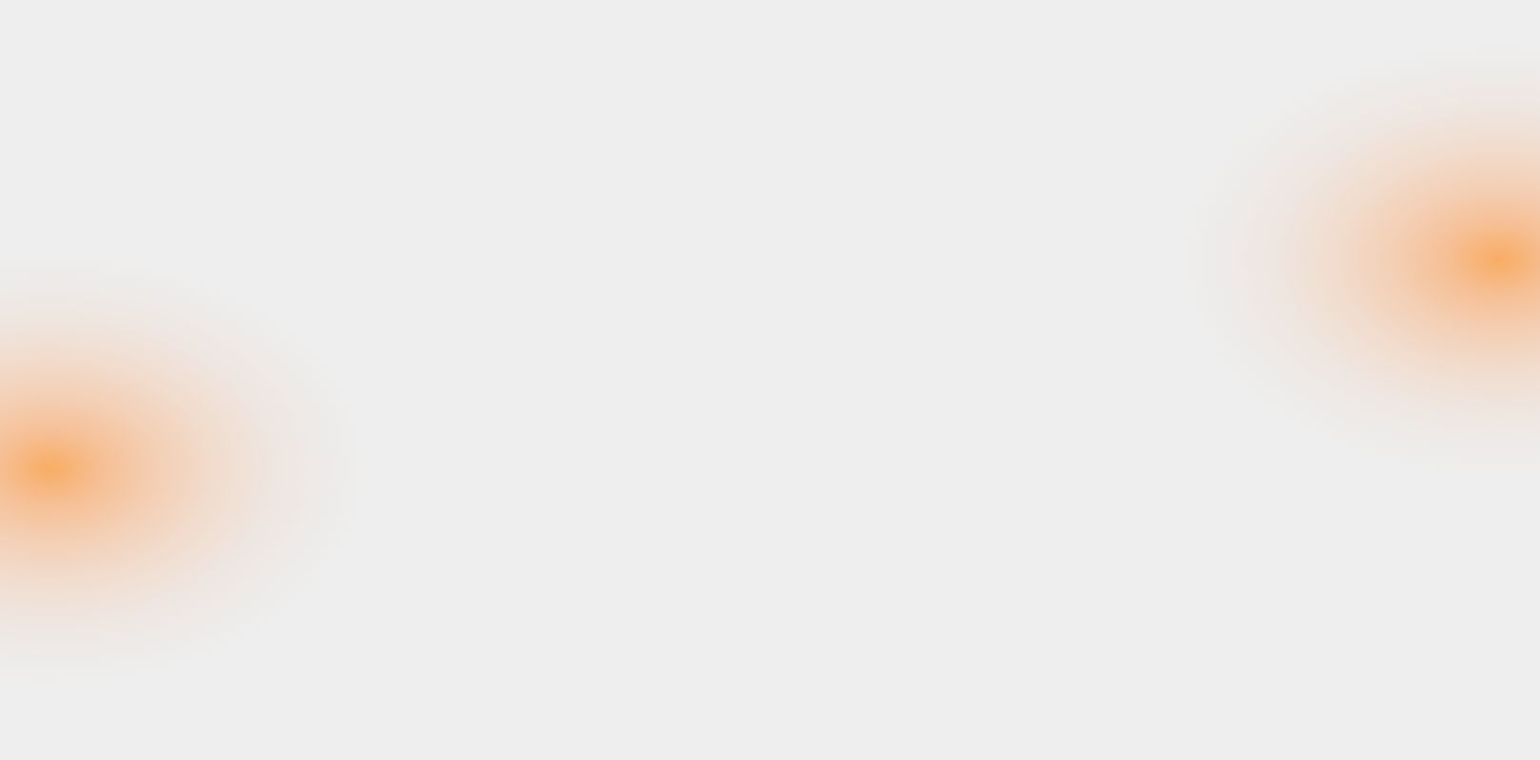
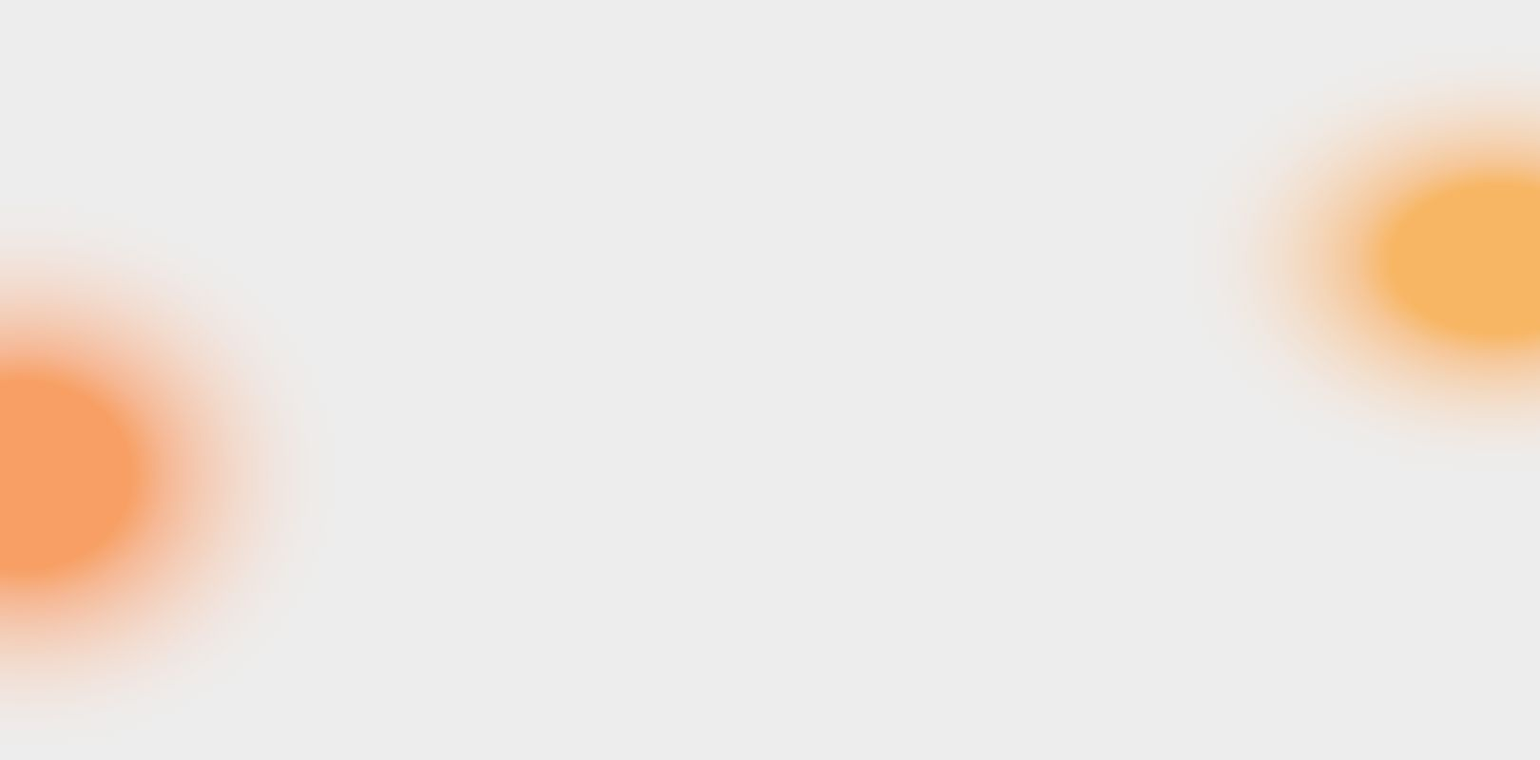
theme

Changed region(s): [[0.0, 0.3438, 0.1235, 0.9062], [0.8333, 0.1562, 1.0, 0.5312]]

diff --git a/client/src/components/aboutMe/AboutMe.jsx b/client/src/components/aboutMe/AboutMe.jsx
@@ -31,37 +31,37 @@ const AboutMe = () => {
 
     return(
         <div className={style.container} style={{background: theme === 'dark' ? "" : '#eee'}}>
-                <p className={style.aboutMe} data-aos="fade-right" data-aos-duration="800" id='about' style={{color: theme === 'dark' ? '#aaa' : '#333', fontWeight: theme === 'dark' ? '400' : '400', borderBottom: theme === 'dark' ? '' : '1px solid #B87700' }}>{t('about.titulo')}</p>
+                <p className={style.aboutMe} data-aos="fade-right" data-aos-duration="800" id='about' style={{color: theme === 'dark' ? '#aaa' : '#222', borderBottom: theme === 'dark' ? '' : '1px solid #ff8e00' }}>{t('about.titulo')}</p>
                 
                 <div className={style.box}>
                         <div className={`${style.imgTxt} ${isLightMobile ? style.imgTxtLight : style.imgTxt}`} data-aos="fade-right" data-aos-duration="800">
-                            <img src="dev.jpeg" alt="Imagen desarrollador" style={{opacity: theme === 'light' ? '1' : ''}} />
+                            <img src="dev.jpeg" alt="Imagen desarrollador" style={{opacity: theme === 'light' ? '.9' : ''}} />
                         </div>
                         <div className={style.contenido}>
                             <div className={style.texto} data-aos="fade-up" data-aos-duration="800">
-                                    <h5 className={`${style.why} ${isLightMobile ? style.whyLight : style.why}`} style={{color: theme === 'dark' ? '' : 'orange', fontWeight: theme === 'dark' ? '' : '500'}}>{t('about.txt-titulo')}</h5>
-                                    <p className={`${style.first} ${isLightMobile ? style.firstLight : style.first}`} style={{color: theme === 'dark' ? '' : '#333', fontWeight: theme === 'dark' ? '' : '400'}}>{t('about.txt-subtitulo')}</p>
-                                    <p className={`${style.second} ${isLightMobile ? style.secondLight : style.second}`} style={{color: theme === 'dark' ? '' : '#222', fontWeight: theme === 'dark' ? '' : '300'}}>{t('about.txt-body')}</p> 
+                                    <h5 className={`${style.why} ${isLightMobile ? style.whyLight : style.why}`} style={{color: theme === 'dark' ? '' : '#ff8e00', fontWeight: theme === 'dark' ? '' : '600', textShadow: theme === 'dark' ? '' : '1px 1px 1px #333, -1px -1px 1px #333'}}>{t('about.txt-titulo')}</h5>
+                                    <p className={`${style.first} ${isLightMobile ? style.firstLight : style.first}`} style={{color: theme === 'dark' ? '' : '#222', fontWeight: theme === 'dark' ? '' : '400'}}>{t('about.txt-subtitulo')}</p>
+                                    <p className={`${style.second} ${isLightMobile ? style.secondLight : style.second}`} style={{color: theme === 'dark' ? '' : '#111', fontWeight: theme === 'dark' ? '' : '300'}}>{t('about.txt-body')}</p> 
                             </div>
                             <div className={`${style.conocimientos} ${isLightMobile ? style.conocimientosLight : style.conocimientos}`} id='about' data-aos="fade-up" data-aos-duration="800">
                                 <h6 style={{color: theme === 'dark' ? '' : '#000', fontWeight: theme === 'dark' ? '' : '600'}}>SKILLS</h6>
                                 <div className={style.skills}>
                                     <div className={`${style.tecno} ${isLightMobile ? style.tecnoLight : style.tecno}`}>
-                                        <div className={`${style.skillItem} ${isLightMobile ? style.skillItemLight : style.skillItem}`} style={{color: theme === 'light' ? '#333' : '', backgroundColor: theme === 'dark' ? '' : 'orange' }}><IoLogoJavascript /><span style={{color: theme === 'light' ? '#333' : '', fontWeight: theme === 'light' ? '500' : ''}}>JavaScript</span></div>
-                                        <div className={`${style.skillItem} ${isLightMobile ? style.skillItemLight : style.skillItem}`} style={{color: theme === 'light' ? '#333' : '', backgroundColor: theme === 'dark' ? '' : 'orange' }}><SiTypescript /><span style={{color: theme === 'light' ? '#333' : '', fontWeight: theme === 'light' ? '500' : ''}}>TypeScript</span></div>
-                                        <div className={`${style.skillItem} ${isLightMobile ? style.skillItemLight : style.skillItem}`} style={{color: theme === 'light' ? '#333' : '', backgroundColor: theme === 'dark' ? '' : 'orange' }}><FaNodeJs /><span style={{color: theme === 'light' ? '#333' : '', fontWeight: theme === 'light' ? '500' : ''}}>NodeJs</span></div>
-                                        <div className={`${style.skillItem} ${isLightMobile ? style.skillItemLight : style.skillItem}`} style={{color: theme === 'light' ? '#333' : '', backgroundColor: theme === 'dark' ? '' : 'orange' }}><SiExpress /><span style={{color: theme === 'light' ? '#333' : '', fontWeight: theme === 'light' ? '500' : ''}}>Express</span></div>
-                                        <div className={`${style.skillItem} ${isLightMobile ? style.skillItemLight : style.skillItem}`} style={{color: theme === 'light' ? '#333' : '', backgroundColor: theme === 'dark' ? '' : 'orange' }}><FaReact /><span style={{color: theme === 'light' ? '#333' : '', fontWeight: theme === 'light' ? '500' : ''}}>ReactJs</span></div>
-                                        <div className={`${style.skillItem} ${isLightMobile ? style.skillItemLight : style.skillItem}`} style={{color: theme === 'light' ? '#333' : '', backgroundColor: theme === 'dark' ? '' : 'orange' }}><SiNextdotjs /><span style={{color: theme === 'light' ? '#333' : '', fontWeight: theme === 'light' ? '500' : ''}}>Next</span></div>
-                                        <div className={`${style.skillItem} ${isLightMobile ? style.skillItemLight : style.skillItem}`} style={{color: theme === 'light' ? '#333' : '', backgroundColor: theme === 'dark' ? '' : 'orange' }}><SiRedux /><span style={{color: theme === 'light' ? '#333' : '', fontWeight: theme === 'light' ? '500' : ''}}>Redux</span></div>
-                                        <div className={`${style.skillItem} ${isLightMobile ? style.skillItemLight : style.skillItem}`} style={{color: theme === 'light' ? '#333' : '', backgroundColor: theme === 'dark' ? '' : 'orange' }}><SiTailwindcss /><span style={{color: theme === 'light' ? '#333' : '', fontWeight: theme === 'light' ? '500' : ''}}>TailwindCss</span></div>
-                                        <div className={`${style.skillItem} ${isLightMobile ? style.skillItemLight : style.skillItem}`} style={{color: theme === 'light' ? '#333' : '', backgroundColor: theme === 'dark' ? '' : 'orange' }}><FaBootstrap /><span style={{color: theme === 'light' ? '#333' : '', fontWeight: theme === 'light' ? '500' : ''}}>Bootstrap</span></div>
-                                        <div className={`${style.skillItem} ${isLightMobile ? style.skillItemLight : style.skillItem}`} style={{color: theme === 'light' ? '#333' : '', backgroundColor: theme === 'dark' ? '' : 'orange' }}><PiFileCssLight /><span style={{color: theme === 'light' ? '#333' : '', fontWeight: theme === 'light' ? '500' : ''}}>Css3</span></div>
-                                        <div className={`${style.skillItem} ${isLightMobile ? style.skillItemLight : style.skillItem}`} style={{color: theme === 'light' ? '#333' : '', backgroundColor: theme === 'dark' ? '' : 'orange' }}><PiFileHtmlLight /><span style={{color: theme === 'light' ? '#333' : '', fontWeight: theme === 'light' ? '500' : ''}}>Html5</span></div>
-                                        <div className={`${style.skillItem} ${isLightMobile ? style.skillItemLight : style.skillItem}`} style={{color: theme === 'light' ? '#333' : '', backgroundColor: theme === 'dark' ? '' : 'orange' }}><SiPostgresql /><span style={{color: theme === 'light' ? '#333' : '', fontWeight: theme === 'light' ? '500' : ''}}>Postgres</span></div>
-                                        <div className={`${style.skillItem} ${isLightMobile ? style.skillItemLight : style.skillItem}`} style={{color: theme === 'light' ? '#333' : '', backgroundColor: theme === 'dark' ? '' : 'orange' }}><MdStorage /><span style={{color: theme === 'light' ? '#333' : '', fontWeight: theme === 'light' ? '500' : ''}}>MongoDB</span></div>
-                                        <div className={`${style.skillItem} ${isLightMobile ? style.skillItemLight : style.skillItem}`} style={{color: theme === 'light' ? '#333' : '', backgroundColor: theme === 'dark' ? '' : 'orange' }}><GrMysql /><span style={{color: theme === 'light' ? '#333' : '', fontWeight: theme === 'light' ? '500' : ''}}>MySql</span></div>
-                                        <div className={`${style.skillItem} ${isLightMobile ? style.skillItemLight : style.skillItem}`} style={{color: theme === 'light' ? '#333' : '', backgroundColor: theme === 'dark' ? '' : 'orange' }}><SiSequelize /><span style={{color: theme === 'light' ? '#333' : '', fontWeight: theme === 'light' ? '500' : ''}}>Sequelize</span></div>
+                                        <div className={`${style.skillItem} ${isLightMobile ? style.skillItemLight : style.skillItem}`} style={{color: theme === 'light' ? '#111' : '', backgroundColor: theme === 'dark' ? '' : '#ff8e00' }}><IoLogoJavascript /><span style={{color: theme === 'light' ? '#111' : '', fontWeight: theme === 'light' ? '500' : ''}}>JavaScript</span></div>
+                                        <div className={`${style.skillItem} ${isLightMobile ? style.skillItemLight : style.skillItem}`} style={{color: theme === 'light' ? '#111' : '', backgroundColor: theme === 'dark' ? '' : '#ff8e00' }}><SiTypescript /><span style={{color: theme === 'light' ? '#111' : '', fontWeight: theme === 'light' ? '500' : ''}}>TypeScript</span></div>
+                                        <div className={`${style.skillItem} ${isLightMobile ? style.skillItemLight : style.skillItem}`} style={{color: theme === 'light' ? '#111' : '', backgroundColor: theme === 'dark' ? '' : '#ff8e00' }}><FaNodeJs /><span style={{color: theme === 'light' ? '#111' : '', fontWeight: theme === 'light' ? '500' : ''}}>NodeJs</span></div>
+                                        <div className={`${style.skillItem} ${isLightMobile ? style.skillItemLight : style.skillItem}`} style={{color: theme === 'light' ? '#111' : '', backgroundColor: theme === 'dark' ? '' : '#ff8e00' }}><SiExpress /><span style={{color: theme === 'light' ? '#111' : '', fontWeight: theme === 'light' ? '500' : ''}}>Express</span></div>
+                                        <div className={`${style.skillItem} ${isLightMobile ? style.skillItemLight : style.skillItem}`} style={{color: theme === 'light' ? '#111' : '', backgroundColor: theme === 'dark' ? '' : '#ff8e00' }}><FaReact /><span style={{color: theme === 'light' ? '#111' : '', fontWeight: theme === 'light' ? '500' : ''}}>ReactJs</span></div>
+                                        <div className={`${style.skillItem} ${isLightMobile ? style.skillItemLight : style.skillItem}`} style={{color: theme === 'light' ? '#111' : '', backgroundColor: theme === 'dark' ? '' : '#ff8e00' }}><SiNextdotjs /><span style={{color: theme === 'light' ? '#111' : '', fontWeight: theme === 'light' ? '500' : ''}}>Next</span></div>
+                                        <div className={`${style.skillItem} ${isLightMobile ? style.skillItemLight : style.skillItem}`} style={{color: theme === 'light' ? '#111' : '', backgroundColor: theme === 'dark' ? '' : '#ff8e00' }}><SiRedux /><span style={{color: theme === 'light' ? '#111' : '', fontWeight: theme === 'light' ? '500' : ''}}>Redux</span></div>
+                                        <div className={`${style.skillItem} ${isLightMobile ? style.skillItemLight : style.skillItem}`} style={{color: theme === 'light' ? '#111' : '', backgroundColor: theme === 'dark' ? '' : '#ff8e00' }}><SiTailwindcss /><span style={{color: theme === 'light' ? '#111' : '', fontWeight: theme === 'light' ? '500' : ''}}>TailwindCss</span></div>
+                                        <div className={`${style.skillItem} ${isLightMobile ? style.skillItemLight : style.skillItem}`} style={{color: theme === 'light' ? '#111' : '', backgroundColor: theme === 'dark' ? '' : '#ff8e00' }}><FaBootstrap /><span style={{color: theme === 'light' ? '#111' : '', fontWeight: theme === 'light' ? '500' : ''}}>Bootstrap</span></div>
+                                        <div className={`${style.skillItem} ${isLightMobile ? style.skillItemLight : style.skillItem}`} style={{color: theme === 'light' ? '#111' : '', backgroundColor: theme === 'dark' ? '' : '#ff8e00' }}><PiFileCssLight /><span style={{color: theme === 'light' ? '#111' : '', fontWeight: theme === 'light' ? '500' : ''}}>Css3</span></div>
+                                        <div className={`${style.skillItem} ${isLightMobile ? style.skillItemLight : style.skillItem}`} style={{color: theme === 'light' ? '#111' : '', backgroundColor: theme === 'dark' ? '' : '#ff8e00' }}><PiFileHtmlLight /><span style={{color: theme === 'light' ? '#111' : '', fontWeight: theme === 'light' ? '500' : ''}}>Html5</span></div>
+                                        <div className={`${style.skillItem} ${isLightMobile ? style.skillItemLight : style.skillItem}`} style={{color: theme === 'light' ? '#111' : '', backgroundColor: theme === 'dark' ? '' : '#ff8e00' }}><SiPostgresql /><span style={{color: theme === 'light' ? '#111' : '', fontWeight: theme === 'light' ? '500' : ''}}>Postgres</span></div>
+                                        <div className={`${style.skillItem} ${isLightMobile ? style.skillItemLight : style.skillItem}`} style={{color: theme === 'light' ? '#111' : '', backgroundColor: theme === 'dark' ? '' : '#ff8e00' }}><MdStorage /><span style={{color: theme === 'light' ? '#111' : '', fontWeight: theme === 'light' ? '500' : ''}}>MongoDB</span></div>
+                                        <div className={`${style.skillItem} ${isLightMobile ? style.skillItemLight : style.skillItem}`} style={{color: theme === 'light' ? '#111' : '', backgroundColor: theme === 'dark' ? '' : '#ff8e00' }}><GrMysql /><span style={{color: theme === 'light' ? '#111' : '', fontWeight: theme === 'light' ? '500' : ''}}>MySql</span></div>
+                                        <div className={`${style.skillItem} ${isLightMobile ? style.skillItemLight : style.skillItem}`} style={{color: theme === 'light' ? '#111' : '', backgroundColor: theme === 'dark' ? '' : '#ff8e00' }}><SiSequelize /><span style={{color: theme === 'light' ? '#111' : '', fontWeight: theme === 'light' ? '500' : ''}}>Sequelize</span></div>
                                     </div>
                                 </div>
                                 </div>

diff --git a/client/src/components/projects/Projects.jsx b/client/src/components/projects/Projects.jsx
@@ -22,31 +22,31 @@ const Projects = () => {
 
     return (
         <div className={style.container} style={{background: theme === 'light' ? "#eee" : ''}}> 
-            <p className={style.titulo} data-aos="fade-up" data-aos-duration="600" id='projects' style={{color: theme === 'dark' ? '#aaa' : '#111', fontWeight: theme === 'dark' ? '400' : '600', borderBottom: theme === 'dark' ? '' : '2px solid #111' }}>
+            <p className={style.titulo} data-aos="fade-up" data-aos-duration="600" id='projects' style={{color: theme === 'dark' ? '#aaa' : '#222', borderBottom: theme === 'dark' ? '' : '1px solid #ff8e00' }}>
                 {t('projects.title')}
             </p>
             <LastProject />
-            <p className={style.titulo} data-aos="fade-up" data-aos-duration="600" id='projects' style={{color: theme === 'dark' ? '#aaa' : '#111', fontWeight: theme === 'dark' ? '400' : '600', borderBottom: theme === 'dark' ? '' : '2px solid #111' }}>
+            <p className={style.titulo} data-aos="fade-up" data-aos-duration="600" id='projects' style={{color: theme === 'dark' ? '#aaa' : '#222', borderBottom: theme === 'dark' ? '' : '1px solid #ff8e00' }}>
                 {t('projects.tit2')}
             </p>
             <div className={style.projectContainer}>
                 {projects.map((project, index) => (
-                    <div className={`${style.boxPc} ${isLightMobile ? style.boxPcLight : style.boxPc}`} key={index} style={{background: theme === 'light' ? '#eee' : ''}}>
+                    <div className={`${style.boxPc} ${theme === 'light' ? style.boxLight : style.boxPc} ${isLightMobile ? style.boxPcLight : style.boxPc}`} key={index}>
                             <div className={style.info}>
-                                <p className={`${style.number} ${isLightMobile ? style.numberLight : style.number}`} style={{color: theme === 'light' ? '#111' : '', fontWeight: theme === 'light' ? '500' : ''}}>{t('projects.project')} {project.id}</p>
-                                <p className={`${style.dale} ${isLightMobile ? style.dateLight : style.date}`} style={{color: theme === 'light' ? '#111' : '#ddd', fontWeight: theme === 'light' ? '500' : '200'}}>{project.date}</p>
+                                <p className={`${style.number} ${isLightMobile ? style.numberLight : style.number}`} style={{color: theme === 'light' ? '#222' : '', fontWeight: theme === 'light' ? '500' : ''}}>{t('projects.project')} {project.id}</p>
+                                <p className={`${style.dale} ${isLightMobile ? style.dateLight : style.date}`} style={{color: theme === 'light' ? '#333' : '#ddd', fontWeight: theme === 'light' ? '500' : '200'}}>{project.date}</p>
                             </div>
                             <div className={style.imgPc} style={{background: theme === 'light' ? '#eee' : ''}}>
                                 <img  src={project.img} alt={project.name} />
                             </div>
-                            <p className={`${style.titu} ${isLightMobile ? style.tituLight : style.titu}`} style={{color: theme === 'light' ? '#000' : '', fontWeight: theme === 'light' ? '600' : ''}}>{project.titulo[i18n.language]}</p>
-                            <p className={`${style.detalle} ${isLightMobile ? style.detalleLight : style.detalle}`} style={{color: theme === 'light' ? '#444' : '', fontWeight: theme === 'light' ? '500' : ''}}>{project.detail[i18n.language]}</p>
-                            <p className={`${style.tecno} ${isLightMobile ? style.tecnoLight : style.tecno}`} style={{color: theme === 'light' ? '#6010f2' : '', fontWeight: theme === 'light' ? '500' : ''}}>{project.technologies}</p>
+                            <p className={`${style.titu} ${isLightMobile ? style.tituLight : style.titu}`} style={{color: theme === 'light' ? '#222' : '', fontWeight: theme === 'light' ? '500' : ''}}>{project.titulo[i18n.language]}</p>
+                            <p className={`${style.detalle} ${isLightMobile ? style.detalleLight : style.detalle}`} style={{color: theme === 'light' ? '#111' : '', fontWeight: theme === 'light' ? '300' : ''}}>{project.detail[i18n.language]}</p>
+                            <p className={`${style.tecno} ${isLightMobile ? style.tecnoLight : style.tecno}`} style={{color: theme === 'light' ? '#333' : '', fontWeight: theme === 'light' ? '600' : ''}}>{project.technologies}</p>
                             <div className={style.butons}>
-                                <a href={project.web}  target="_blank" rel="noopener noreferrer" className={`${style.butonWeb} ${isLightMobile ? style.butonWebLight : style.butonWeb}`} style={{background: theme === 'light' ? '#6010f2' : '', color: theme === 'light' ? '#fff' : '', border: theme === 'light' ? '1px solid #000' : ''}}>
+                                <a href={project.web}  target="_blank" rel="noopener noreferrer" className={`${style.butonWeb} ${isLightMobile ? style.butonWebLight : style.butonWeb}`} style={{background: theme === 'light' ? '#ff8e00' : '', color: theme === 'light' ? '#111' : '', border: theme === 'light' ? '1px solid #111' : ''}}>
                                     <FaExternalLinkAlt />{t('projects.website')}
                                 </a>         
-                                <a href={project.repository} target="_blank" rel="noopener noreferrer" className={`${style.butonGit} ${isLightMobile ? style.butonRepLight : style.butonGit}`} style={{background: theme === 'light' ? '#fff' : '', color: theme === 'light' ? '#111' : '',border: theme === 'light' ? '1px solid #00000030' : ''}}>
+                                <a href={project.repository} target="_blank" rel="noopener noreferrer" className={`${style.butonGit} ${isLightMobile ? style.butonRepLight : style.butonGit}`} style={{background: theme === 'light' ? 'transparent' : '', color: theme === 'light' ? '#111' : '',border: theme === 'light' ? '1px solid #00000030' : ''}}>
                                     <FaGithub />{t('projects.repository')}
                                 </a>  
                             </div>

diff --git a/client/src/components/lastProject/LastProject.jsx b/client/src/components/lastProject/LastProject.jsx
@@ -20,28 +20,28 @@ const LastProject = () => {
 
     return (
         <div className={style.container} style={{background: theme === 'light' ? "#eee" : ''}}> 
-            <p className={style.titulo} data-aos="fade-left" data-aos-duration="600" style={{color: theme === 'dark' ? '#aaa' : '#111', fontWeight: theme === 'dark' ? '400' : '600', borderBottom: theme === 'dark' ? '' : '2px solid #111' }}>
+            <p className={style.titulo} data-aos="fade-left" data-aos-duration="600" style={{color: theme === 'dark' ? '#aaa' : '#222', borderBottom: theme === 'dark' ? '' : '1px solid #ff8e00' }}>
                 {t('lastProject.title')}
             </p>
             <div className={style.projectContainer}>
-                <h3 className={style.nombre}>{t("lastProject.project")} <span>- Nov 2024</span></h3>
+                <h3 className={style.nombre} style={{color: theme === 'dark' ? '' : '#333'}}>{t("lastProject.project")} <span style={{color: theme === 'dark' ? '' : '#333', fontWeight: theme === 'dark' ? '' : '500'}}>- Nov 2024</span></h3>
                 <div className={style.first}>
                     <div className={style.videoContainer}>
-                        <video className={style.video} autoPlay muted playsInline controls loop src="./medVid.mp4" alt="" />
+                        <video className={style.video} autoPlay muted playsInline controls loop src="./medVid.mp4" alt="" style={{border: theme === 'dark' ? '' : '3px solid #ff8e00'}}/>
                     </div>
                     <div className={style.txt}>
-                        <p className={style.desc}>{t("lastProject.desc")}</p>
-                        <p className={style.tecTit}>{t("lastProject.tecTit")}</p>
-                        <p className={style.tec}>Backend: <span>NodeJs, Express, PostgreSql, Sequelize, NodeMailer</span></p>
-                        <p className={style.tec}>Frontend: <span>Next 14, TailwindCss</span></p>
-                        <p className={style.tec}>{t("lastProject.auth")} <span>Auth0 2.0</span></p>
-                        <p className={style.tec}>{t("lastProject.pay")} <span>Check out pro Mercado Pago</span></p>
-                        <p className={style.tec}>{t("lastProject.othersTit")} <span>{t("lastProject.others")}</span></p>
+                        <p className={style.desc}style={{color: theme === 'dark' ? '' : '#333', fontWeight: theme === 'dark' ? '' : '300'}}>{t("lastProject.desc")}</p>
+                        <p className={style.tecTit} style={{color: theme === 'dark' ? '' : '#ff8e00', fontWeight: theme === 'dark' ? '' : '500'}}>{t("lastProject.tecTit")}</p>
+                        <p className={style.tec} style={{color: theme === 'dark' ? '' : '#111', fontWeight: theme === 'dark' ? '' : '500'}}>Backend: <span style={{color: theme === 'dark' ? '' : '#222', fontWeight: theme === 'dark' ? '' : '400'}}>NodeJs, Express, PostgreSql, Sequelize, NodeMailer</span></p>
+                        <p className={style.tec} style={{color: theme === 'dark' ? '' : '#111', fontWeight: theme === 'dark' ? '' : '500'}}>Frontend: <span style={{color: theme === 'dark' ? '' : '#222', fontWeight: theme === 'dark' ? '' : '400'}}>Next 14, TailwindCss</span></p>
+                        <p className={style.tec} style={{color: theme === 'dark' ? '' : '#111', fontWeight: theme === 'dark' ? '' : '500'}}>{t("lastProject.auth")} <span style={{color: theme === 'dark' ? '' : '#222', fontWeight: theme === 'dark' ? '' : '400'}}>Auth0 2.0</span></p>
+                        <p className={style.tec} style={{color: theme === 'dark' ? '' : '#111', fontWeight: theme === 'dark' ? '' : '500'}}>{t("lastProject.pay")} <span style={{color: theme === 'dark' ? '' : '#222', fontWeight: theme === 'dark' ? '' : '400'}}>Check out pro Mercado Pago</span></p>
+                        <p className={style.tec} style={{color: theme === 'dark' ? '' : '#111', fontWeight: theme === 'dark' ? '' : '500'}}>{t("lastProject.othersTit")} <span style={{color: theme === 'dark' ? '' : '#222', fontWeight: theme === 'dark' ? '' : '400'}}>{t("lastProject.others")}</span></p>
                         <div className={style.butons}>
-                            <a href="https://medibooks.vercel.app"  target="_blank" rel="noopener noreferrer" className={`${style.butonWeb} ${isLightMobile ? style.butonWebLight : style.butonWeb}`} style={{background: theme === 'light' ? '#6010f2' : '#111', color: theme === 'light' ? '#fff' : '#fff', border: theme === 'light' ? '1px solid #000' : ' 1px solid #ffffff60'}}>
+                            <a href="https://medibooks.vercel.app"  target="_blank" rel="noopener noreferrer" className={`${style.butonWeb} ${isLightMobile ? style.butonWebLight : style.butonWeb}`} style={{background: theme === 'light' ? '#ff8e00' : '#111', color: theme === 'light' ? '#111' : '#fff', border: theme === 'light' ? '1px solid #111' : ' 1px solid #ffffff60'}}>
                                 <FaExternalLinkAlt />{t('lastProject.website')}
                             </a>         
-                            <a href="https://github.com/matidehoyos/medibooks-client" target="_blank" rel="noopener noreferrer" className={`${style.butonWeb} ${isLightMobile ? style.butonRepLight : style.butonWeb}`} style={{background: theme === 'light' ? '#fff' : '#111', color: theme === 'light' ? '#111' : '#ccc',border: theme === 'light' ? '1px solid #00000030' : '1px solid #ffffff30'}}>
+                            <a href="https://github.com/matidehoyos/medibooks-client" target="_blank" rel="noopener noreferrer" className={`${style.butonWeb} ${isLightMobile ? style.butonRepLight : style.butonWeb}`} style={{background: theme === 'light' ? 'transparent' : '#111', color: theme === 'light' ? '#111' : '#ccc', border: theme === 'light' ? '1px solid #111' : '1px solid #ffffff30'}}>
                                 <FaGithub />{t('lastProject.repository')}
                             </a>  
                         </div>

diff --git a/client/src/components/contact/Contact.jsx b/client/src/components/contact/Contact.jsx
@@ -19,26 +19,26 @@ const Contact = () => {
 
     return(
         <div className={style.container} id="contact" style={{background: theme === 'light' ? "#eee" : ''}}>
-                <p className={style.contactMe} data-aos="fade-right" data-aos-duration="800" id='about' style={{color: theme === 'dark' ? '#aaa' : '#111', fontWeight: theme === 'dark' ? '400' : '600', borderBottom: theme === 'dark' ? '' : '2px solid #111' }}>
+                <p className={style.contactMe} data-aos="fade-right" data-aos-duration="800" id='about' style={{color: theme === 'dark' ? '#aaa' : '#222', borderBottom: theme === 'dark' ? '' : '1px solid #ff8e00' }}>
                     {t('contact.title')}
                 </p>
-                <div className={`${style.box} ${isLightMobile ? style.boxLight : style.box}`} data-aos="fade-up" data-aos-duration="800" style={{background: theme === 'light' ? '#444' : '', border: theme === 'light' ? '1px solid #00000030' : ''}}>
+                <div className={`${style.box} ${isLightMobile ? style.boxLight : style.box}`} data-aos="fade-up" data-aos-duration="800" style={{background: theme === 'light' ? '#ff8e0070' : '', border: theme === 'light' ? '1px solid #00000030' : ''}}>
                 <div className={style.imgPre} >
-                    <div className={style.subCont}>
+                    <div className={style.subCont} style={{background: theme === 'dark' ? 'rgb(116, 75, 0)' : '#eee', border: theme === 'dark' ? '' : '1px solid #aaa'}}>
                         <img src="contact.png" alt="Imagen telefono." className={style.imgHeader} data-aos="fade-up" data-aos-duration="800" />
                     </div>
                 </div>
                 <div className={`${style.caja} ${isLightMobile ? style.cajaLight : style.caja}`}>
-                    <p style={{color: theme === 'light' ? '#eee' : '#aeaeae', fontWeight: theme === 'light' ? '300' : '300'}}>
+                    <p style={{color: theme === 'light' ? '#111' : '#aeaeae', fontWeight: theme === 'light' ? '300' : '300'}}>
                         {t('contact.message')}
                     </p>
                     <div className={`${style.redes} ${isLightMobile ? style.redesLight : style.redes}`}>
                         <nav>
                             <ul>
-                                <li><a href='mailto:mati.dehoyosmdp@gmail.com' target="_blank" className={isLightMobile ? style.mail : ''}  style={{background: theme === 'light' ? '#fff' : '', border: theme === 'light' ? '1px solid #ccc' : '', color: theme === 'light' ? '#111' : '', fontWeight: theme === 'light' ? '400' : ''}}><FaEnvelope className={style.icon}/>mati.dehoyosmdp@gmail.com</a></li>
-                                <li><a href="https://api.whatsapp.com/send?phone=542236901801" target="_blank" className={isLightMobile ? style.red : ''} style={{background: theme === 'light' ? '#ffffff80' : '', border: theme === 'light' ? '1px solid #fff' : '', color: theme === 'light' ? '#000' : ''}}><FaWhatsapp className={style.icon}/>WhatsApp</a></li>
-                                <li><a href='https://www.linkedin.com/in/matias-de-hoyos-802bb4212/' className={isLightMobile ? style.red : ''}  target='_blank' style={{background: theme === 'light' ? '#ffffff80' : '', border: theme === 'light' ? '1px solid #fff' : '', color: theme === 'light' ? '#000' : ''}}><FaLinkedin className={style.icon}/>LinkedIn</a></li>
-                                <li><a href='https://github.com/matidehoyos' target='_blank' className={isLightMobile ? style.red : ''}  style={{background: theme === 'light' ? '#ffffff80' : '', border: theme === 'light' ? '1px solid #fff' : '', color: theme === 'light' ? '#000' : ''}}><AiFillGithub className={style.icon}/>GitHub</a></li>
+                                <li><a href='mailto:mati.dehoyosmdp@gmail.com' target="_blank" className={isLightMobile ? style.mail : ''}  style={{background: theme === 'light' ? '#eee' : '', border: theme === 'light' ? '1px solid #888' : '', color: theme === 'light' ? '#222' : '', fontWeight: theme === 'light' ? '400' : ''}}><FaEnvelope className={style.icon}/>mati.dehoyosmdp@gmail.com</a></li>
+                                <li><a href="https://api.whatsapp.com/send?phone=542236901801" target="_blank" className={isLightMobile ? style.red : ''} style={{background: theme === 'light' ? '#eee' : '', border: theme === 'light' ? '1px solid #888' : '', color: theme === 'light' ? '#111' : ''}}><FaWhatsapp className={style.icon}/>WhatsApp</a></li>
+                                <li><a href='https://www.linkedin.com/in/matias-de-hoyos-802bb4212/' className={isLightMobile ? style.red : ''}  target='_blank' style={{background: theme === 'light' ? '#eee' : '', border: theme === 'light' ? '1px solid #888' : '', color: theme === 'light' ? '#111' : ''}}><FaLinkedin className={style.icon}/>LinkedIn</a></li>
+                                <li><a href='https://github.com/matidehoyos' target='_blank' className={isLightMobile ? style.red : ''}  style={{background: theme === 'light' ? '#eee' : '', border: theme === 'light' ? '1px solid #888' : '', color: theme === 'light' ? '#111' : ''}}><AiFillGithub className={style.icon}/>GitHub</a></li>
                             </ul>
                         </nav>
                     </div>

diff --git a/client/src/components/navBar/NavBar.jsx b/client/src/components/navBar/NavBar.jsx
@@ -48,27 +48,27 @@ const NavBar = () => {
     };
 
     return (
-        <div className={`${style.container} ${isScrolled ? style.scrolled : ''}`} style={{backgroundImage: isScrolled && theme === 'light' ? 'url(./bgNavLigth.jpeg)' : '', backgroundPosition: 'center', backgroundSize: 'cover' }}>
+        <div className={`${style.container} ${isScrolled ? style.scrolled : ''}`} style={{backgroundImage: isScrolled && theme === 'light' ? 'none' : '', backgroundColor: isScrolled && theme === 'light' ? '#eee' : '', borderBottom: theme === 'dark' ? '' : '0.3px solid #999'}}>
             <a href='#header' className={style.link}>
-                <img src='./nav.png' style={{backgroundColor: theme === 'dark' ? '' : 'orange', border: theme === 'dark' ? '' : '1px solid orange'}} alt="Logo"/>
+                <img src='./nav.png' style={{backgroundColor: theme === 'dark' ? '' : '#ff8e0080', border: theme === 'dark' ? '' : '1px solid #888', opacity: theme === 'dark' ? '' : '1'}} alt="Logo"/>
                 <div className={style.txt}>
-                    <h6 style={{color: theme === 'dark' ? '' : '#333'}}>{t('navbar.name')}</h6>
-                    <p style={{color: theme === 'dark' ? '' : '#444'}}>{t('navbar.developer')}</p>
+                    <h6 style={{color: theme === 'dark' ? '' : '#222'}}>{t('navbar.name')}</h6>
+                    <p style={{color: theme === 'dark' ? '' : '#333', fontWeight: theme === 'dark' ? '' : '500'}}>{t('navbar.developer')}</p>
                 </div>
             </a>
                 <div className={`${style.menu} ${isLightMobile ? style.menuLight : style.menu}`} onClick={ocultarMenu} style={isVisible ? { left: '0px' } : { left: '1200px' }}>
                     <nav>
                         <ul>
-                            <li><a href="#about" onClick={handleShowMenu} style={{color: theme === 'dark' ? '' : '#333'}}>{t('navbar.about')}</a></li>
-                            <li><a href="#projects" onClick={handleShowMenu} style={{color: theme === 'dark' ? '' : '#333'}}>{t('navbar.projects')}</a></li>
-                            <li><a href="#contact" onClick={handleShowMenu} style={{color: theme === 'dark' ? '' : '#333'}}>{t('navbar.contact')}</a></li>
+                            <li><a href="#about" onClick={handleShowMenu} style={{color: theme === 'dark' ? '' : '#222'}}>{t('navbar.about')}</a></li>
+                            <li><a href="#projects" onClick={handleShowMenu} style={{color: theme === 'dark' ? '' : '#222'}}>{t('navbar.projects')}</a></li>
+                            <li><a href="#contact" onClick={handleShowMenu} style={{color: theme === 'dark' ? '' : '#222'}}>{t('navbar.contact')}</a></li>
                         </ul>
                     </nav>
-                    <button onClick={toggleTheme} className={style.tema} style={{justifyContent: theme === 'light' ? 'flex-end' : 'flex-start'}}>
-                        {theme === 'light' ? <FiSun className={style.temaIcon} /> : <FiMoon className={style.temaIcon} /> }
+                    <button onClick={toggleTheme} className={style.tema} style={{justifyContent: theme === 'light' ? 'flex-end' : 'flex-start', border: theme === 'dark' ? '' : '1px solid #222' }}>
+                        {theme === 'light' ? <FiSun className={style.temaIcon} style={{backgroundColor: theme === 'dark' ? '' : '#333'}} /> : <FiMoon className={style.temaIcon}  style={{backgroundColor: theme === 'dark' ? '' : '#fff'}}/> }
                     </button>
                     <button onClick={toggleLanguage} className={style.languageButton}>
-                        <img src={language === 'en' ? './sp.jpeg' : './uk.jpeg' } alt="Language Flag" className={style.flagIcon} />
+                        <img src={language === 'en' ? './sp.jpeg' : './uk.jpeg' } alt="Language Flag" className={style.flagIcon} style={{border: theme === 'dark' ? '' : '1px solid #222' }}/>
                     </button>
                 </div>
                 <div className={style.botonera}>

diff --git a/client/src/components/header/Header.jsx b/client/src/components/header/Header.jsx
@@ -18,16 +18,16 @@ const Header = () => {
     }, []);
 
     return (
-        <div className={style.container} id='header' style={{background: theme === 'light' ? "#eee" : '', backgroundImage: theme === 'dark' ? '' : 'url(./bgLight.jpeg)' , backgroundPosition: 'center', backgroundSize: 'cover'}}>
+        <div className={style.container} id='header' style={{background: theme === 'light' ? "#eee" : ''}}>
             <div className={style.imgPre} style={{width: '100vw'}} >
-                <div className={style.subCont} style={{background: theme === 'light' ? "#eee" : '', backgroundColor: theme === 'dark' ? '' : '#B87700' , border: theme === 'dark' ? '' : '1px solid #222'}}>
+                <div className={style.subCont} style={{backgroundColor: theme === 'dark' ? "" : '#ff8e0080', border: theme === 'dark' ? '' : '1px solid #888'}}>
                     <img src="nav.png" alt="Imagen personal" className={style.imgHeader} data-aos="fade-up" data-aos-duration="800" />
                 </div>
             </div>
             <div className={`${style.texto} ${isLightMobile ? style.textoLight : style.texto}`} data-aos="fade-up" data-aos-duration="800">
                 <p className={style.pres} style={{color: theme === 'dark' ? '' : '#333', fontWeight: theme === 'dark' ? '' : '500'}}>{t('header.me')}</p>
-                <h1><span className={`${style.rol} ${isLightMobile ? style.rolLight : style.rol}`}>Full Stack - Frontend</span><br/><span className={`${style.dev} ${isLightMobile ? style.devLight : style.dev}`} style={{color: theme === 'dark' ? '' : '#444', fontWeight: theme === 'dark' ? '' : '500'}}>Developer</span></h1>
-                <p className={`${style.des} ${isLightMobile ? style.desLight : style.des}`} style={{color: theme === 'dark' ? '' : '#444', fontWeight: theme === 'dark' ? '' : '400'}}>{t('header.description')}</p>
+                <h1><span className={`${style.rol} ${isLightMobile ? style.rolLight : style.rol}`} style={{color: theme === 'dark' ? '' : '#ff8e00', fontWeight: theme === 'dark' ? '' : '600', textShadow: theme === 'dark' ? '' : '1px 1px 1px #333, -1px -1px 1px #333'}}>Full Stack - Frontend</span><br/><span className={`${style.dev} ${isLightMobile ? style.devLight : style.dev}`} style={{color: theme === 'dark' ? '' : '#333', fontWeight: theme === 'dark' ? '' : '500'}}>Developer</span></h1>
+                <p className={`${style.des} ${isLightMobile ? style.desLight : style.des}`} style={{color: theme === 'dark' ? '' : '#222', fontWeight: theme === 'dark' ? '' : '400'}}>{t('header.description')}</p>
             </div>
         </div>
     )

diff --git a/client/src/components/projects/Projects.module.css b/client/src/components/projects/Projects.module.css
@@ -39,11 +39,30 @@
    padding: 15px;
    border: 1px solid rgb(47, 47, 47);
    background-color: #17181d;
+   border-radius: 12px;
 }
 
 .boxPc:hover {
-   border: 1px solid #aaa;
+   border: 1px solid #ff8e00;
    background-color: #16171a;
+}
+
+.boxLight {
+   width: 49%;
+   display: flex;
+   flex-direction: column;
+   justify-content: start;
+   align-items: stretch;
+   gap: 0;
+   padding: 15px;
+   border: 1px solid #00000039;
+   background-color: #ddd;
+   border-radius: 12px;
+}
+
+.boxLight:hover {
+   border: 1px solid #ff8e00;
+   background-color: #eee;
 }
 
 .info {
@@ -146,10 +165,13 @@
    border: 1px solid #000;
 }
 
+.boxPc:hover .butonWeb {
+   background-color: #ff8e00;
+}
+
 .butonWeb:hover {
    border: 1px solid orange;
    background-color: transparent;
-   color: orange;
 }
 
 .butonWeb svg {

diff --git a/client/src/components/contact/Contact.module.css b/client/src/components/contact/Contact.module.css
@@ -28,7 +28,7 @@
     margin: 0 auto;
     margin-top: 75px;
     padding: 20px;
-    background-color: #111;
+    background-color: transparent;
     border: 1px solid rgb(87, 57, 0);
     border-radius: 12px;
 }
@@ -46,7 +46,6 @@
     display: flex;
     overflow: hidden;
     border: 1px solid #000;
-    background-color: rgb(116, 75, 0);
     border-radius: 8px;
     overflow: hidden;
 }
@@ -110,8 +109,8 @@
   }
   
   .redes a:hover {
-    border: 1px solid rgb(218, 142, 0);
-    color: rgb(208, 135, 0);
+    border: 1px solid rgb(218, 142, 0) !important;
+    color: rgb(208, 135, 0) !important;
   }
   
   .redes svg {

diff --git a/client/src/components/footer/Footer.jsx b/client/src/components/footer/Footer.jsx
@@ -11,9 +11,8 @@ const Footer = () => {
 
 
     return(
-        <div className={style.container} style={{background: theme === 'light' ? '#333' : ''}}>
-            <p style={{color: theme === 'light' ? '#aaa' : ''}}>{t('footer.derechos')}</p>
-            <a href="/"><FaArrowAltCircleUp /></a>
+        <div className={style.container} style={{background: theme === 'light' ? '#aaa' : ''}}>
+            <p style={{color: theme === 'light' ? '#222' : ''}}>{t('footer.derechos')}</p>
         </div>
     )
 }

diff --git a/client/src/components/header/Header.module.css b/client/src/components/header/Header.module.css
@@ -33,8 +33,7 @@
     width: 240px;
     height: auto;
     pointer-events: none;
-    filter: grayscale(.7);
-    mask-image: linear-gradient(to bottom, #333 20%, transparent);
+    filter: grayscale(.6);
 }
 
 

diff --git a/client/src/components/navBar/NavBar.module.css b/client/src/components/navBar/NavBar.module.css
@@ -40,6 +40,7 @@
     border: 1px solid rgb(101, 65, 0);
     background-color: rgb(67, 44, 0);
     opacity: .7;
+    pointer-events: none;
 }
 
 .txt {
